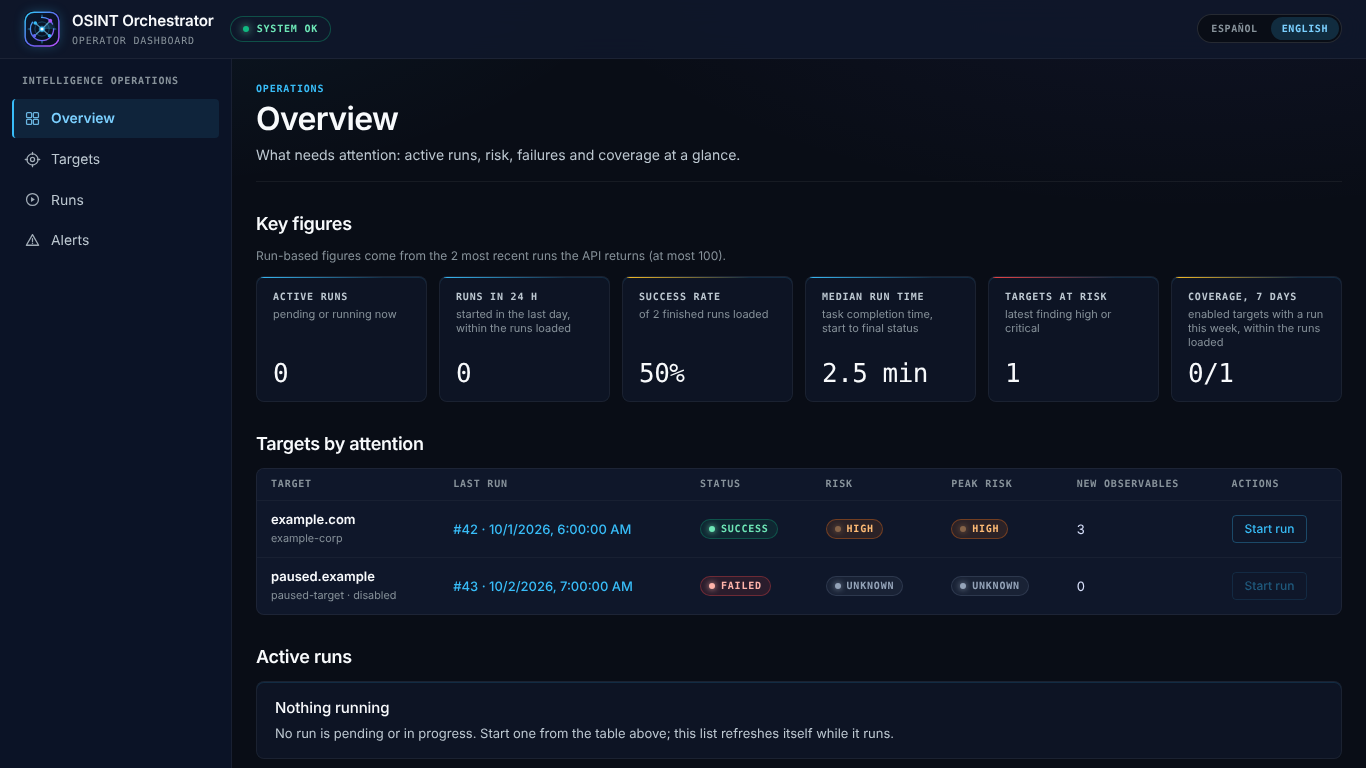
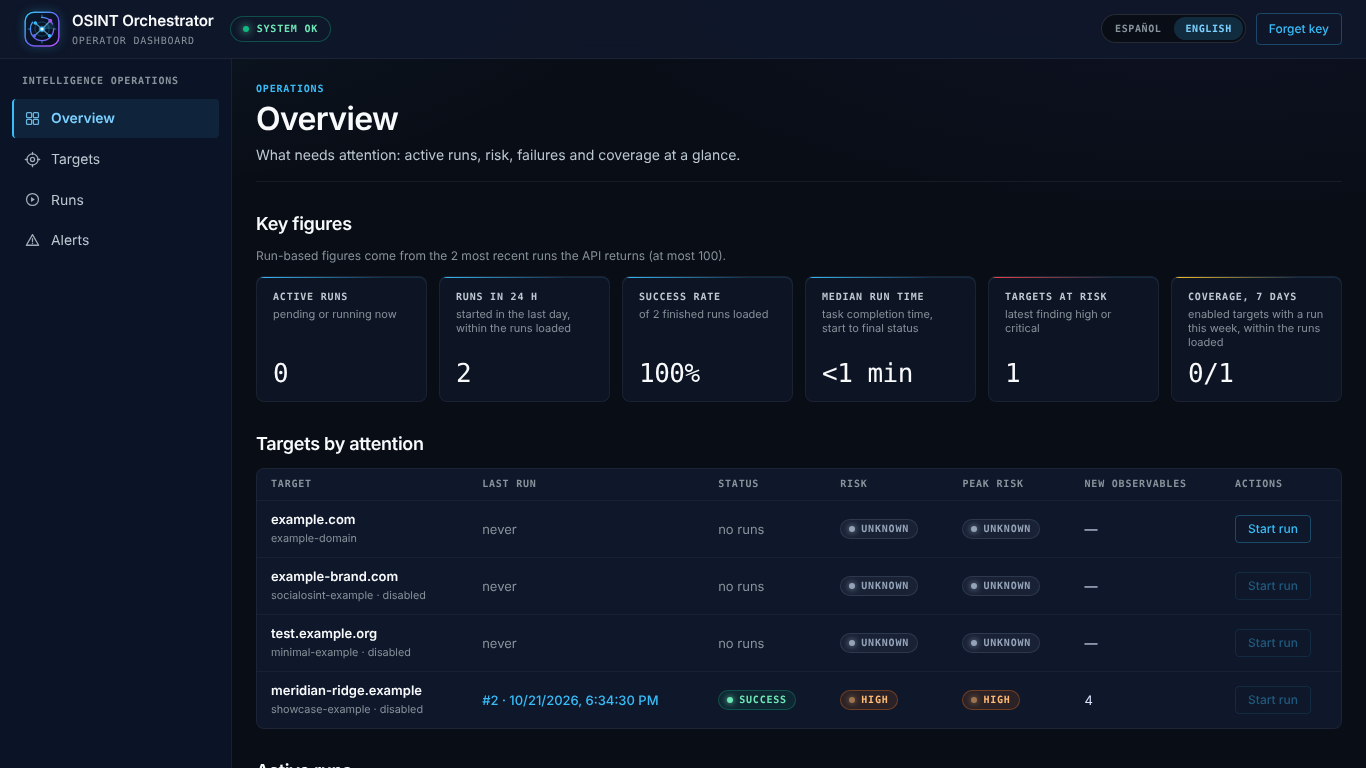
docs: README screenshots from the showcase run
The four dashboard screenshots now show the console after
`python -m orchestrator.showcase`, served by the real API over a
database seeded with the two recordings (one API per language, so the
Spanish captures carry the Spanish rationales), instead of the unit
tests' fixtures. A sentence before the images says what they are and
the captions name the showcase target's place in the table (last,
because it is disabled) and the recorded sample as qualifier.

Claude-Session: https://claude.ai/code/session_01PP3rFC1v2DapRF8PySonCG

diff --git a/README.es.md b/README.es.md
@@ -183,9 +183,12 @@ activas, hallazgos, evidencia con búsqueda y filtros, y un botón para iniciar
 corridas; pide `ORCHESTRATOR_API_KEY` al abrirlo. Código en
 [`ui/`](ui/README.md) (en inglés); las imágenes lo construyen solas.
 
-![Resumen: cifras clave y objetivos ordenados por atención](docs/img/dashboard-overview-es.png)
+Las dos capturas son la consola tras la corrida de muestra del nivel 1: la
+entidad ficticia, dos corridas, ninguna clave de API.
 
-![Espacio de la corrida: cada evidencia con su categoría, relevancia, confianza y justificación](docs/img/dashboard-run-evidence-es.png)
+![Resumen: cifras clave y objetivos ordenados por atención; el objetivo de la muestra va último porque está desactivado](docs/img/dashboard-overview-es.png)
+
+![Espacio de la corrida: cada evidencia con su categoría, relevancia, confianza y justificación, calificada por la muestra grabada](docs/img/dashboard-run-evidence-es.png)
 
 ## Construido durante el hackathon
 

diff --git a/README.md b/README.md
@@ -175,9 +175,12 @@ evidence with search and filters, and a Start-run action; it asks for
 `ORCHESTRATOR_API_KEY` on first load. Source in [`ui/`](ui/README.md); the
 images build it, so nothing else is needed.
 
-![Overview: key figures and targets ordered by attention](docs/img/dashboard-overview-en.png)
+Both screenshots are the console after the showcase run of tier 1: the
+fictitious sample, two runs, no API key.
 
-![Run workspace: each piece of evidence with its category, relevance, confidence and rationale](docs/img/dashboard-run-evidence-en.png)
+![Overview: key figures and targets ordered by attention, the showcase target last because it is disabled](docs/img/dashboard-overview-en.png)
+
+![Run workspace: each piece of evidence with its category, relevance, confidence and rationale, qualified by the recorded sample](docs/img/dashboard-run-evidence-en.png)
 
 ## Built during the hackathon
 

diff --git a/CHANGELOG.md b/CHANGELOG.md
@@ -11,6 +11,9 @@ from [SECURITY.md](SECURITY.md).
 
 ### Added
 
+- README screenshots (both languages) now show the console after the showcase
+  run, served by the real API over a database seeded with the two recordings,
+  instead of the unit tests' fixtures; the captions say so.
 - The showcase from a fresh clone: `daily_reports/` ships in the repository
   (a `.gitkeep`), so Docker no longer creates the bind mount root-owned on
   the first `docker compose up` and the container (uid 1000) can write the
